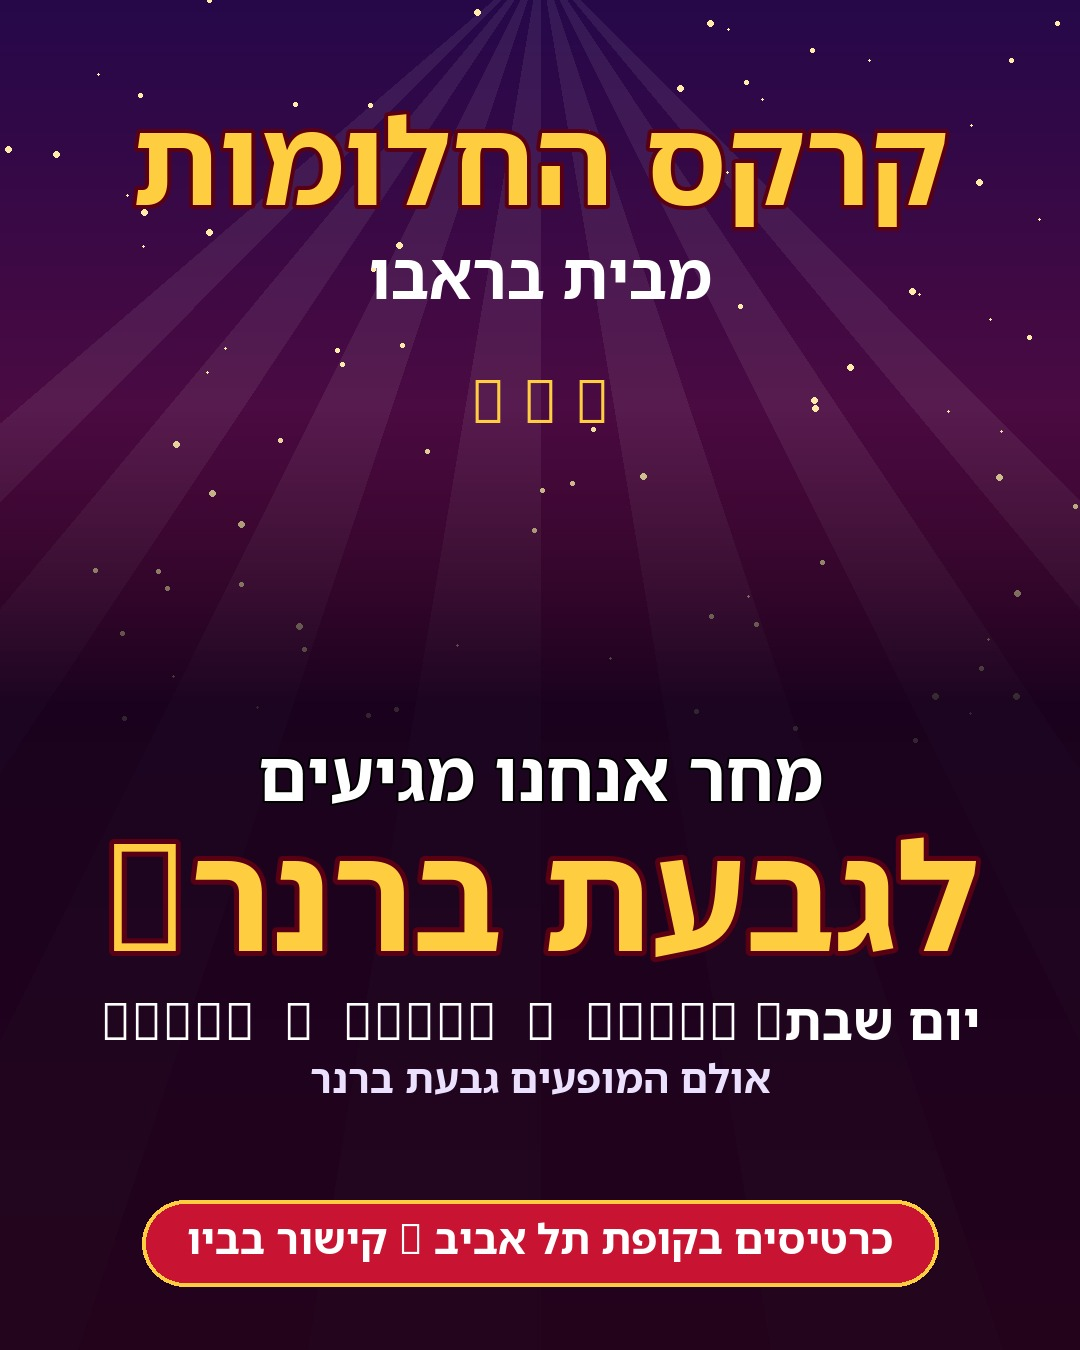
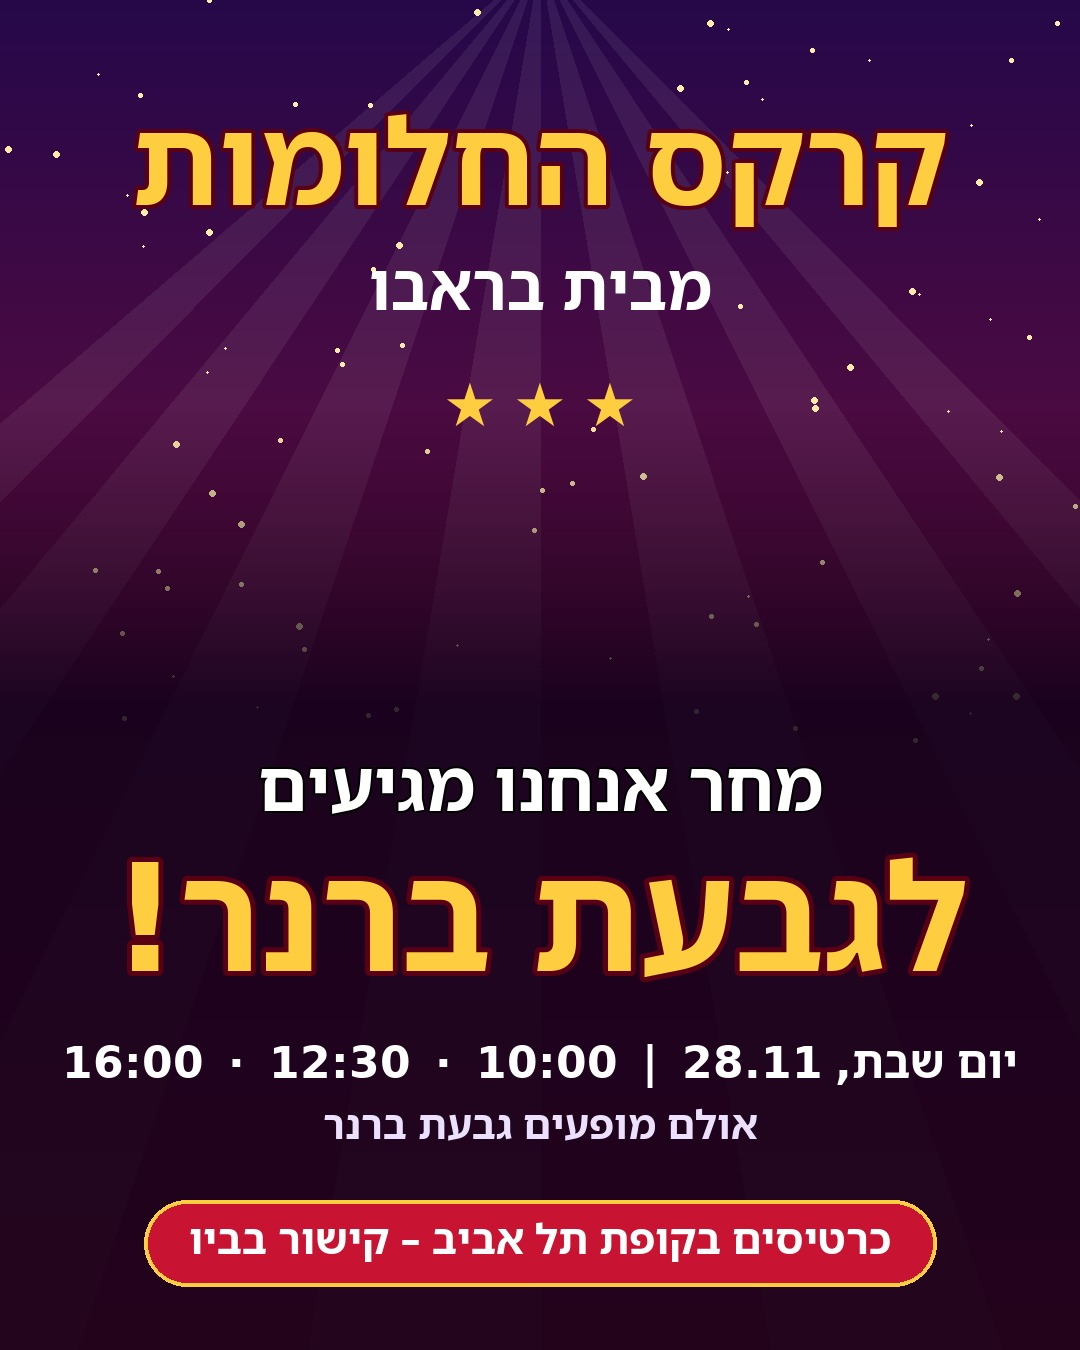
Posters: draw digits and symbols with a fallback font
Noto Sans Hebrew has no 0-9, ★, ·, |, ! – dates and times on every poster
came out as empty boxes. Characters the main font lacks are now drawn with
DejaVu Sans. Regenerated the Givat Brenner (with the 16:00 show) and
Ma'ale Adumim posters.

Claude-Session: https://claude.ai/code/session_013r1aboUMeDHQYreGmTzs2G

diff --git a/agent/tour.py b/agent/tour.py
@@ -112,14 +112,61 @@ def ai_background_prompt(stop: dict) -> str:
 
 
 # ---------------------------------------------------------------- poster
-def _font(size: int):
+# Hebrew fonts often lack digits/symbols (Noto Sans Hebrew has no 0-9, ★, ·, |),
+# so every character the main font can't draw is drawn with a fallback font.
+FALLBACK_CANDIDATES = [
+    "/usr/share/fonts/truetype/dejavu/DejaVuSans-Bold.ttf",
+    "/usr/share/fonts/truetype/noto/NotoSans-Bold.ttf",
+    "/usr/share/fonts/truetype/liberation/LiberationSans-Bold.ttf",
+]
+
+
+def _load(paths: list[str], size: int):
     from PIL import ImageFont
-    custom = sorted(FONTS_DIR.glob("*.[ot]tf")) if FONTS_DIR.exists() else []
-    for path in [str(p) for p in custom] + FONT_CANDIDATES:
+    for path in paths:
         if Path(path).exists():
             # BASIC layout + python-bidi gives correct Hebrew on every machine (no libraqm needed).
             return ImageFont.truetype(path, size, layout_engine=ImageFont.Layout.BASIC)
-    return ImageFont.load_default(size)
+    return None
+
+
+class _Font:
+    """Main font + fallback for missing glyphs."""
+
+    def __init__(self, size: int):
+        from PIL import ImageFont
+        custom = sorted(FONTS_DIR.glob("*.[ot]tf")) if FONTS_DIR.exists() else []
+        self.main = _load([str(p) for p in custom] + FONT_CANDIDATES, size) or ImageFont.load_default(size)
+        self.fallback = _load(FALLBACK_CANDIDATES, size)
+        self._cache: dict[str, bool] = {}
+        try:
+            self._notdef = bytes(self.main.getmask("\uE000"))
+        except Exception:
+            self._notdef = None
+
+    def has(self, ch: str) -> bool:
+        if ch.isspace() or self._notdef is None or self.fallback is None:
+            return True
+        if ch not in self._cache:
+            self._cache[ch] = bytes(self.main.getmask(ch)) != self._notdef
+        return self._cache[ch]
+
+    def runs(self, text: str) -> list[tuple[str, object]]:
+        out: list[tuple[str, object]] = []
+        for ch in text:
+            f = self.main if self.has(ch) else self.fallback
+            if out and out[-1][1] is f:
+                out[-1] = (out[-1][0] + ch, f)
+            else:
+                out.append((ch, f))
+        return out
+
+    def width(self, draw, visual: str, stroke: int = 0) -> float:
+        return sum(draw.textlength(t, font=f) for t, f in self.runs(visual)) + 2 * stroke
+
+
+def _font(size: int) -> _Font:
+    return _Font(size)
 
 
 def _rtl(text: str) -> str:
@@ -127,22 +174,26 @@ def _rtl(text: str) -> str:
     return get_display(text)
 
 
-def _fit(draw, text: str, max_w: int, size: int, min_size: int = 28):
+def _fit(draw, text: str, max_w: int, size: int, min_size: int = 28) -> _Font:
     while size > min_size:
         f = _font(size)
-        if draw.textlength(_rtl(text), font=f) <= max_w:
+        if f.width(draw, _rtl(text)) <= max_w:
             return f
         size -= 4
     return _font(min_size)
 
 
-def _centered(draw, y: int, text: str, font, fill, width: int, stroke=0, stroke_fill=None) -> int:
+def _centered(draw, y: int, text: str, font: _Font, fill, width: int, stroke=0, stroke_fill=None) -> int:
     t = _rtl(text)
-    box = draw.textbbox((0, 0), t, font=font, stroke_width=stroke)
-    w, h = box[2] - box[0], box[3] - box[1]
-    draw.text(((width - w) / 2 - box[0], y - box[1]), t, font=font, fill=fill,
-              stroke_width=stroke, stroke_fill=stroke_fill)
-    return y + h
+    # Height from the main font so lines stay evenly spaced; all runs share one baseline.
+    top, bottom = font.main.getbbox("אבגדהלק", anchor="ls")[1], font.main.getbbox("אבגדהלק", anchor="ls")[3]
+    x = (width - font.width(draw, t, stroke)) / 2 + stroke
+    base = y - top + stroke
+    for run, f in font.runs(t):
+        draw.text((x, base), run, font=f, fill=fill, anchor="ls",
+                  stroke_width=stroke, stroke_fill=stroke_fill)
+        x += draw.textlength(run, font=f)
+    return y + (bottom - top) + 2 * stroke
 
 
 def _background(W: int, H: int, base: Path | None):
@@ -207,7 +258,7 @@ def make_poster(stop: dict, out: Path, base: Path | None = None) -> Path:
     # Call-to-action button
     cta = "כרטיסים בקופת תל אביב – קישור בביו"
     f = _fit(d, cta, W - 220, 42)
-    bw = d.textlength(_rtl(cta), font=f) + 90
+    bw = f.width(d, _rtl(cta)) + 90
     by = max(y + 10, H - 150)
     d.rounded_rectangle([(W - bw) / 2, by, (W + bw) / 2, by + 86], radius=43, fill=red,
                         outline=gold, width=4)
